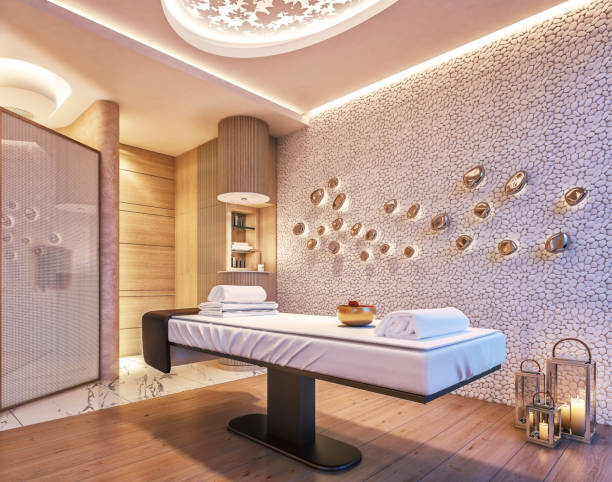
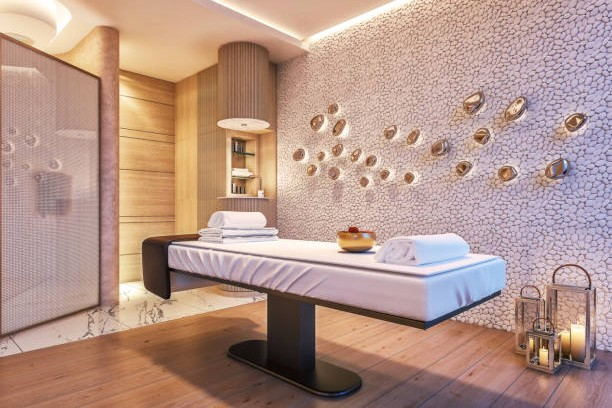
Resize and crop images.

diff --git a/src/views/SpecialOffersView.vue b/src/views/SpecialOffersView.vue
@@ -9,12 +9,12 @@ Products are currently hard-coded, but perhaps
 we should request the same information from the database?
 */
 const products = [
-      {name: 'Parking', image: "parking.webp", price: 10}, 
+      {name: 'Parking', image: "parking.jpg", price: 10}, 
       {name: 'Champagne', image: "champagne.jpeg", price: 15}, 
       {name: 'Shuttle', image: "shuttle.png", price: 5},
       {name: 'Massage', image: "massage.jpg", price: 50},
-      {name: 'Restaurant', image: "restaurant.webp", price: 25},
-      {name: 'Wake up call', image: "wake-up-call.webp", price: 5}
+      {name: 'Restaurant', image: "restaurant.jpg", price: 25},
+      {name: 'Wake up call', image: "wake-up-call.jpg", price: 5}
       ]
 const imagesDir = "service-imgs"
 </script>
